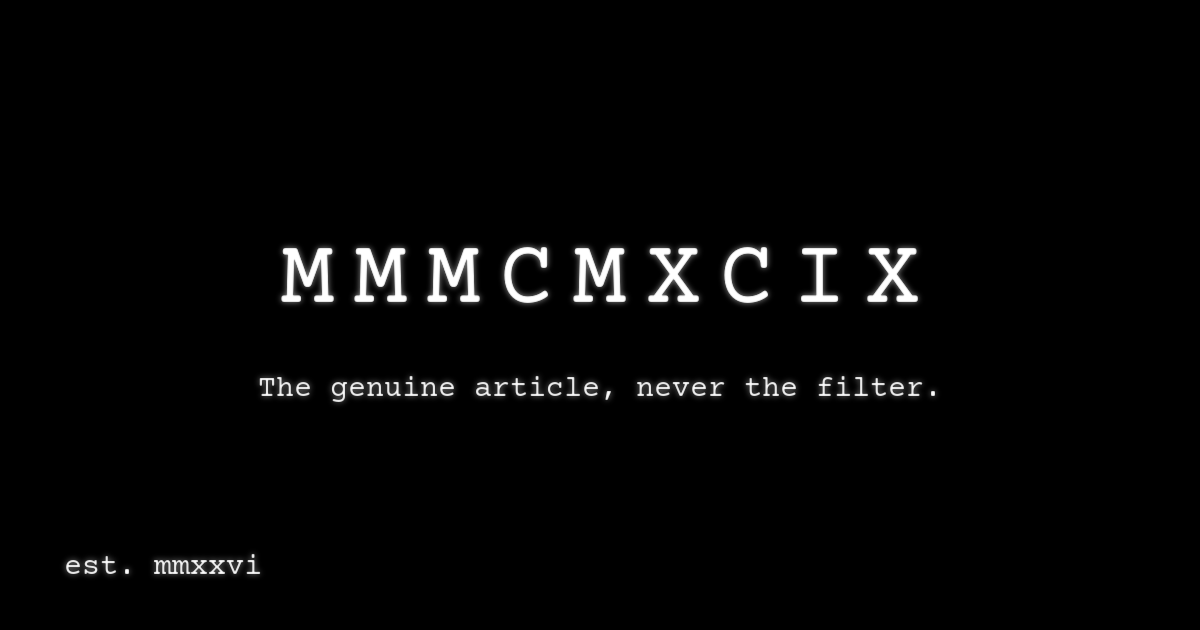
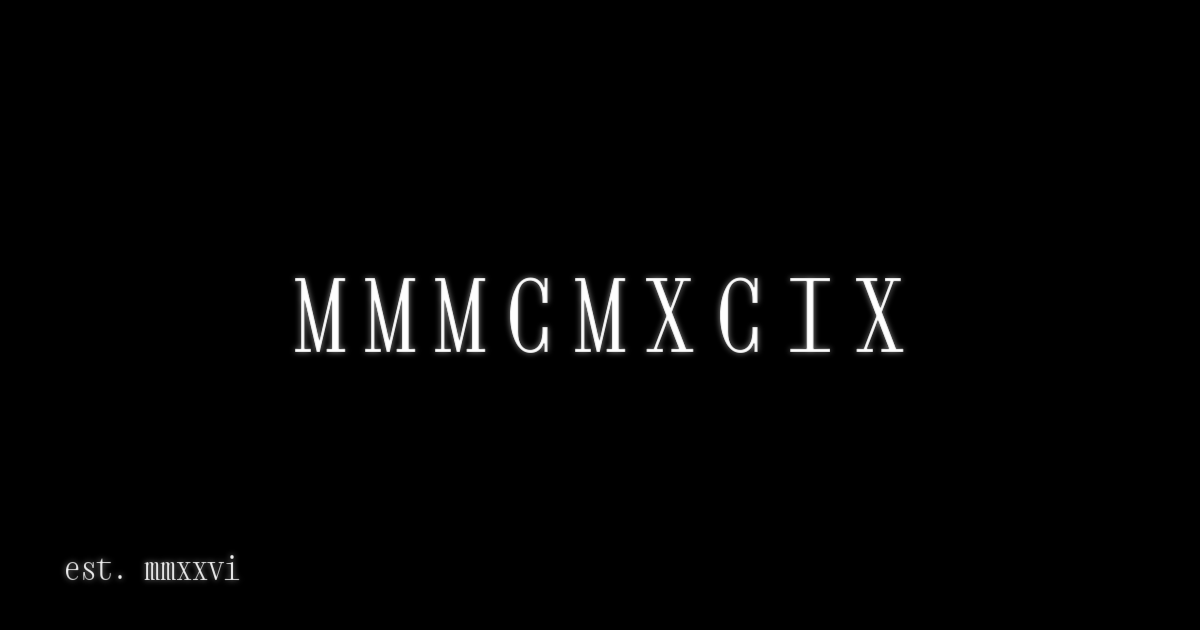
Set in Xanh Mono

Changed region(s): [[0.2158, 0.3921, 0.7708, 0.573], [0.2158, 0.573, 0.7708, 0.6333], [0.0617, 0.8746, 0.2158, 0.9349]]

diff --git a/index.html b/index.html
@@ -4,7 +4,7 @@
   <meta charset="utf-8">
   <meta name="viewport" content="width=device-width, initial-scale=1">
   <title>MMMCMXCIX</title>
-  <meta name="description" content="MMMCMXCIX is a house for painting, garments, instruments, images and software. The genuine article, never the filter. Est. MMXXVI.">
+  <meta name="description" content="MMMCMXCIX. Est. MMXXVI.">
   <meta name="author" content="MMMCMXCIX">
   <meta name="robots" content="index, follow">
   <meta name="theme-color" content="#000000">
@@ -16,16 +16,16 @@
   <meta property="og:type" content="website">
   <meta property="og:site_name" content="MMMCMXCIX">
   <meta property="og:title" content="MMMCMXCIX">
-  <meta property="og:description" content="The genuine article, never the filter.">
+  <meta property="og:description" content="Est. MMXXVI.">
   <meta property="og:url" content="https://mmmcmxcix.studio/">
   <meta property="og:image" content="https://mmmcmxcix.studio/assets/img/og.png">
   <meta property="og:image:width" content="1200">
   <meta property="og:image:height" content="630">
-  <meta property="og:image:alt" content="MMMCMXCIX, set in white typewriter type on black.">
+  <meta property="og:image:alt" content="MMMCMXCIX in white type on black.">
   <meta property="og:locale" content="en_US">
   <meta name="twitter:card" content="summary_large_image">
   <meta name="twitter:title" content="MMMCMXCIX">
-  <meta name="twitter:description" content="The genuine article, never the filter.">
+  <meta name="twitter:description" content="Est. MMXXVI.">
   <meta name="twitter:image" content="https://mmmcmxcix.studio/assets/img/og.png">
 
   <link rel="icon" href="favicon.ico" sizes="32x32">
@@ -33,7 +33,7 @@
   <link rel="apple-touch-icon" href="assets/img/apple-touch-icon.png">
   <link rel="manifest" href="site.webmanifest">
 
-  <link rel="preload" href="assets/fonts/courier-prime-400.woff2" as="font" type="font/woff2" crossorigin>
+  <link rel="preload" href="assets/fonts/xanh-mono-400.woff2" as="font" type="font/woff2" crossorigin>
   <link rel="stylesheet" href="assets/css/site.css">
 
   <script type="application/ld+json">
@@ -44,7 +44,6 @@
     "url": "https://mmmcmxcix.studio/",
     "logo": "https://mmmcmxcix.studio/assets/img/icon-512.png",
     "foundingDate": "2026-09-29",
-    "slogan": "The genuine article, never the filter.",
     "sameAs": ["https://github.com/MMMCMXCIX"]
   }
   </script>
@@ -56,8 +55,6 @@
       <header>
         <h1><a class="mark" href="./">MMMCMXCIX</a></h1>
       </header>
-
-      <p>The genuine article, never the filter.</p>
 
       <p>not yet.</p>
 

diff --git a/assets/css/site.css b/assets/css/site.css
@@ -1,16 +1,16 @@
 /* MMMCMXCIX — plain text, black and white. */
 
 @font-face {
-  font-family: "Courier Prime";
-  src: url("../fonts/courier-prime-400.woff2") format("woff2");
+  font-family: "Xanh Mono";
+  src: url("../fonts/xanh-mono-400.woff2") format("woff2");
   font-weight: 400;
   font-style: normal;
   font-display: swap;
 }
 
 @font-face {
-  font-family: "Courier Prime";
-  src: url("../fonts/courier-prime-400-italic.woff2") format("woff2");
+  font-family: "Xanh Mono";
+  src: url("../fonts/xanh-mono-400-italic.woff2") format("woff2");
   font-weight: 400;
   font-style: italic;
   font-display: swap;
@@ -43,7 +43,7 @@ body {
   min-height: 100dvh;
   background: var(--ground);
   color: var(--ink);
-  font: 15px/1.6 "Courier Prime", "Courier New", Courier, monospace;
+  font: 16px/1.6 "Xanh Mono", "Courier New", Courier, monospace;
   text-shadow: 0 0 var(--glow) rgba(255, 255, 255, 0.55);
   -webkit-font-smoothing: auto;
 }

diff --git a/private/content.example.html b/private/content.example.html
@@ -18,17 +18,9 @@
   </ul>
 </nav>
 
-<p>The genuine article, never the filter.</p>
-
 <section id="doctrine" aria-labelledby="doctrine-h">
   <h2 id="doctrine-h">doctrine</h2>
-  <pre>I    real process over simulated effect.
-II   withhold. show the work, never explain the system.
-III  subtraction is the ornament.
-IV   material honesty.
-V    one loud thing.
-VI   build the world, not the image.
-VII  show the process.</pre>
+  <pre>I  II  III  IV  V  VI  VII</pre>
 </section>
 
 <section id="lines" aria-labelledby="lines-h">

diff --git a/README.md b/README.md
@@ -1,7 +1,5 @@
 # MMMCMXCIX
 
-The genuine article, never the filter.
-
 A static site with no framework, build step or tracking. The public page is a holding page with a key field. Everything behind the key is encrypted in `vault.json` and only decrypts in the browser when the right key is entered.
 
 ## How the key works
@@ -24,7 +22,7 @@ The lock is exactly as strong as the key. Use a passphrase of at least 16 charac
 | `404.html` | Not-found page |
 | `assets/css/site.css` | All styles. `--soft` in `:root` sets the text bleed (0 = crisp) |
 | `assets/js/vault.js` | Browser-side decryption |
-| `assets/fonts/` | Courier Prime, self-hosted (SIL OFL 1.1, see `OFL.txt`) |
+| `assets/fonts/` | Xanh Mono, self-hosted (SIL OFL 1.1, see `OFL.txt`) |
 | `assets/img/` | Favicon, app icons, social preview image |
 | `private/content.example.html` | Template for the private pages |
 | `scripts/seal.mjs` | Encrypts `private/content.html` into `vault.json` |
